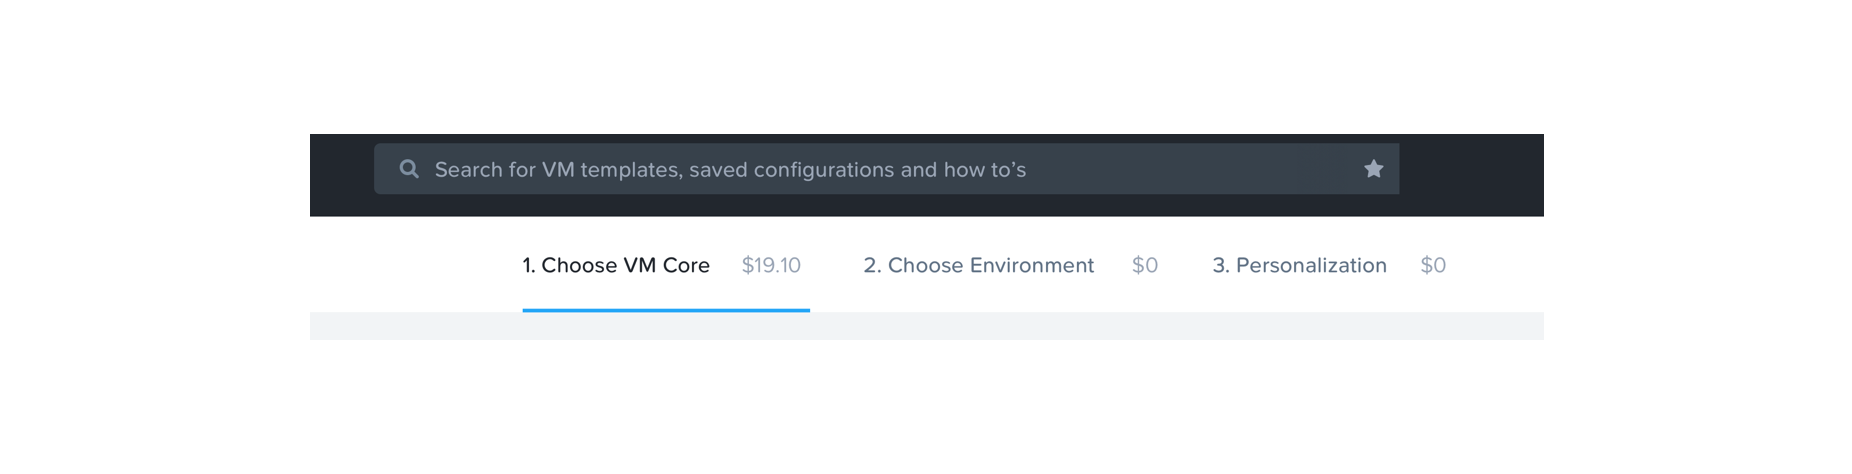
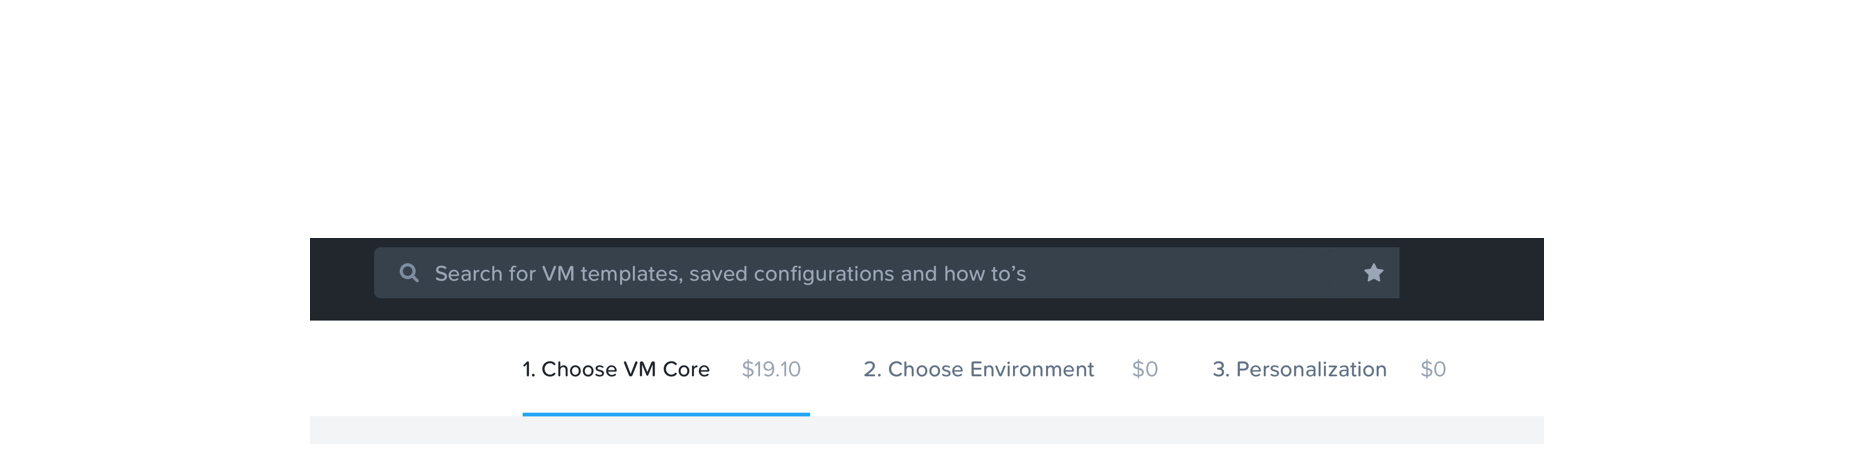
changes

diff --git a/ntx.html b/ntx.html
@@ -437,7 +437,7 @@
 <!-- Progress and Cost -->
       <div
         id="progress-cost"
-        class="row col-9 container d-flex align-items-start justify-content-center"
+        class="row col-9 container d-flex align-items-start justify-content-between"
       >
         <div class="col-4 text-box-white">
           <div
@@ -472,7 +472,7 @@
             <img
               src="nutanix/n15.png"
               alt="project-image.png"
-              class="process-image-no-text-glass"
+              class="process-image-no-text-ntx"
             />
           </div>
         </div>
@@ -481,7 +481,7 @@
 
 <!-- T-shirt sizes  -->
       <div
-        id="progress-cost"
+        id="tshirt-sizes"
         class="row col-9 container d-flex align-items-start justify-content-center"
       >
         <div class="col-4 text-box-white">
@@ -517,7 +517,7 @@
             <img
               src="nutanix/n16.png"
               alt="project-image.png"
-              class="process-image-no-text-glass"
+              class="process-image-no-text-ntx"
             />
           </div>
         </div>
@@ -527,8 +527,8 @@
 
 <!-- Contextual Help  -->
             <div
-              id="progress-cost"
-              class="row col-9 container d-flex align-items-start justify-content-center"
+              id="contextual-help"
+              class="row col-9 container d-flex align-items-start justify-content-between"
             >
               <div class="col-4 text-box-white">
                 <div
@@ -563,7 +563,7 @@
                   <img
                     src="nutanix/n17.png"
                     alt="project-image.png"
-                    class="process-image-no-text-glass"
+                    class="process-image-no-text-ntx"
                   />
                 </div>
               </div>
@@ -606,7 +606,7 @@
             <img
               src="amazon/a13.png"
               alt="project-image.png"
-              class="process-image-no-text-glass"
+              class="process-image-no-text-ntx"
             />
           </div>
         </div>
@@ -648,7 +648,7 @@
             <img
               src="amazon/a14.png"
               alt="project-image.png"
-              class="process-image-no-text-glass"
+              class="process-image-no-text-ntx"
             />
           </div>
         </div>
@@ -697,7 +697,7 @@
             <img
               src="amazon/a16.png"
               alt="project-image.png"
-              class="process-image-no-text-glass"
+              class="process-image-no-text-ntx"
             />
           </div>
         </div>

diff --git a/app.css b/app.css
@@ -422,6 +422,15 @@
   padding-bottom: 1rem;
 }
 
+.process-image-no-text-ntx {
+  display: block;
+  margin-left: Auto;
+  margin-right: auto;
+  width: 100%;
+  padding-top: 2rem;
+  padding-bottom: 0rem;
+}
+
 .deocoration-bar {
   width: 30px;
   height: 10px;
